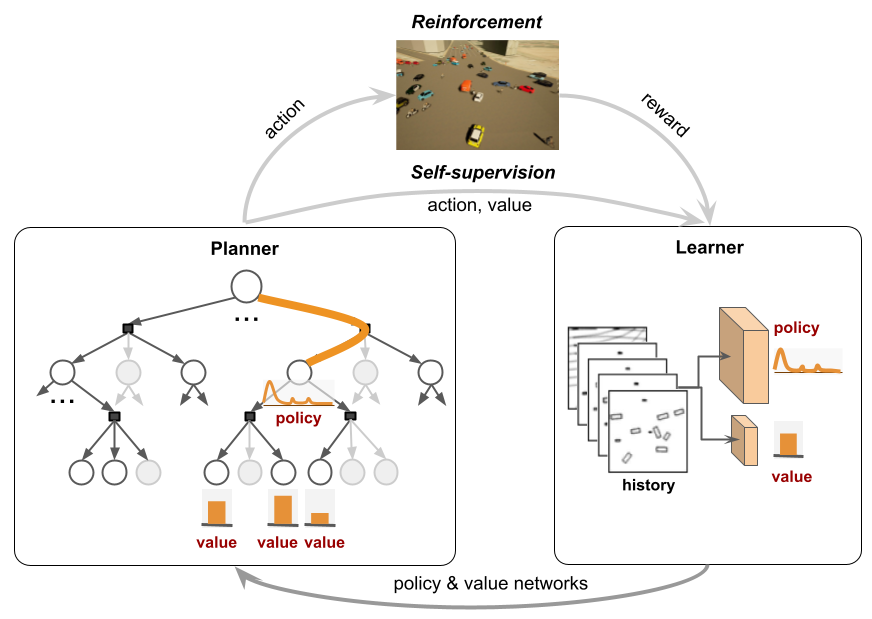
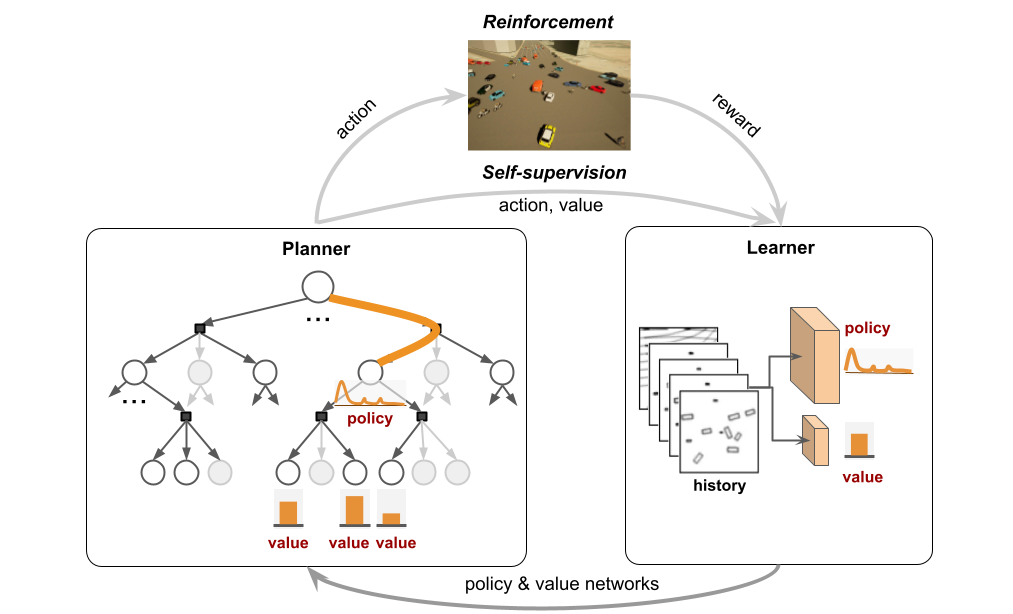
update experience and tro featured image

Changed region(s): [[0.031, 0.0, 0.9908, 1.0], [0.6193, 0.4951, 0.9599, 0.8046]]

diff --git a/index.html b/index.html
@@ -871,12 +871,56 @@
       <div class="col py-2">
         <div class="card">
           <div class="card-body">
+            <h4 class="card-title exp-title text-muted mt-0 mb-1">Associate Professor</h4>
+            <h4 class="card-title exp-company text-muted my-0">Shanghai Jiao Tong University</h4>
+            <div class="text-muted exp-meta">
+              Aug 2022 –
+              
+                Present
+              
+              
+                <span class="middot-divider"></span>
+                <span>Shanghai, China</span>
+              
+            </div>
+            <div class="card-text"><p>Research topics:</p>
+<ul>
+<li>Integrating planning and learning</li>
+<li>Planning under uncertainty</li>
+<li>Autonomous driving</li>
+<li>Robot manipulation</li>
+</ul>
+</div>
+          </div>
+        </div>
+      </div>
+    </div>
+    
+    <div class="row experience">
+      
+      <div class="col-auto text-center flex-column d-none d-sm-flex">
+        <div class="row h-50">
+          <div class="col border-right">&nbsp;</div>
+          <div class="col">&nbsp;</div>
+        </div>
+        <div class="m-2">
+          <span class="badge badge-pill border ">&nbsp;</span>
+        </div>
+        <div class="row h-50">
+          <div class="col border-right">&nbsp;</div>
+          <div class="col">&nbsp;</div>
+        </div>
+      </div>
+      
+      <div class="col py-2">
+        <div class="card">
+          <div class="card-body">
             <h4 class="card-title exp-title text-muted mt-0 mb-1">Senior Research fellow</h4>
             <h4 class="card-title exp-company text-muted my-0">National University of Singapore</h4>
             <div class="text-muted exp-meta">
               Dec 2021 –
               
-                Present
+                Jan 2022
               
               
                 <span class="middot-divider"></span>
@@ -1176,7 +1220,7 @@ uncertainty.</li>
   
   
   <a href="/publication/cai-2022-lets-drive-tro/">
-      <img src="/publication/cai-2022-lets-drive-tro/featured_hu924fe48eb63d3471d3581cf03b925f35_108353_918x517_fill_q90_lanczos_smart1_3.png" class="article-banner" alt="">
+      <img src="/publication/cai-2022-lets-drive-tro/featured_hu248c1bccc6c9160a9c98773cbb8c37e1_111338_918x517_fill_q90_lanczos_smart1_3.png" class="article-banner" alt="">
   </a>
   
 

diff --git a/publication/cai-2022-lets-drive-tro/index.html b/publication/cai-2022-lets-drive-tro/index.html
@@ -594,9 +594,9 @@
 </div>
 
 
-<div class="article-header article-container featured-image-wrapper mt-4 mb-4" style="max-width: 720px; max-height: 511px;">
+<div class="article-header article-container featured-image-wrapper mt-4 mb-4" style="max-width: 720px; max-height: 436px;">
   <div style="position: relative">
-    <img src="/publication/cai-2022-lets-drive-tro/featured_hu924fe48eb63d3471d3581cf03b925f35_108353_720x0_resize_lanczos_3.png" alt="" class="featured-image">
+    <img src="/publication/cai-2022-lets-drive-tro/featured_hu248c1bccc6c9160a9c98773cbb8c37e1_111338_720x0_resize_lanczos_3.png" alt="" class="featured-image">
     
   </div>
 </div>

diff --git a/publication/index.html b/publication/index.html
@@ -651,7 +651,7 @@
     
     
     <a href="/publication/cai-2022-lets-drive-tro/" >
-      <img src="/publication/cai-2022-lets-drive-tro/featured_hu924fe48eb63d3471d3581cf03b925f35_108353_150x0_resize_lanczos_3.png" alt="">
+      <img src="/publication/cai-2022-lets-drive-tro/featured_hu248c1bccc6c9160a9c98773cbb8c37e1_111338_150x0_resize_lanczos_3.png" alt="">
     </a>
     
   </div>
